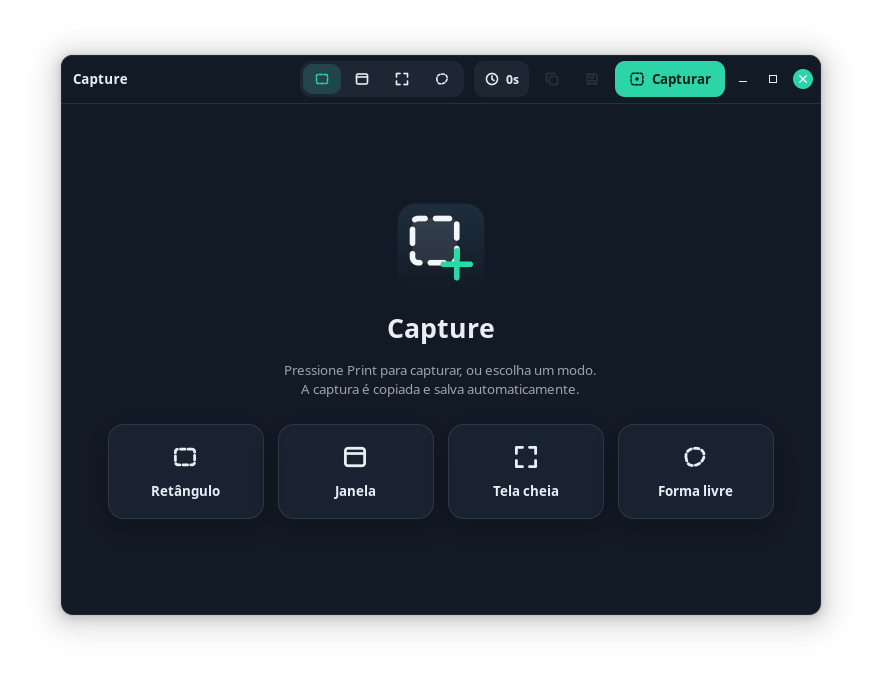
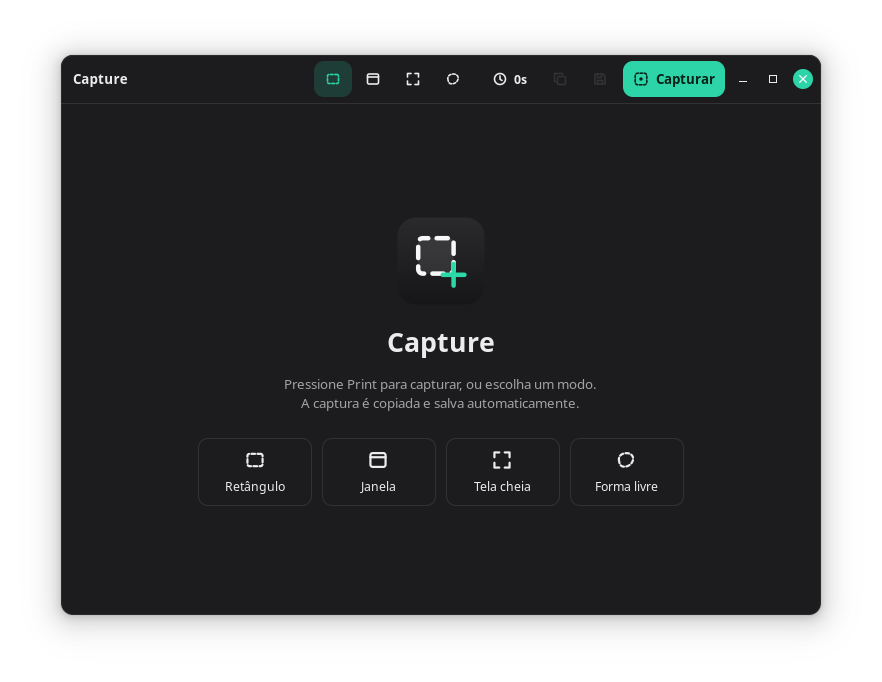
Visual minimalista, icone com mais respiro e roadmap no README
Tema grafite neutro com acento unico (botao Capturar e ferramenta/modo ativo),
paineis solidos com borda fina, modos do cabecalho sem caixa, cartoes do estado
vazio como botoes de contorno, sobreposicao com escurecimento neutro de 45%,
contorno de 1,5 px, colchetes menores e dica que some apos 2 s. Icone com a
arte interna reduzida em 20%. README com descricao visual e roadmap.

diff --git a/capture/app.py b/capture/app.py
@@ -22,7 +22,7 @@ from .overlay import Sessao
 from . import teste
 from .tema import CLARO, ESCURO, tokens_css
 
-# Identidade: azul-marinho profundo, um unico acento verde-agua e paineis de "vidro"
+# Identidade: cinzas grafite neutros, um unico acento verde-agua e paineis solidos
 # (preenchimento translucido + borda clara de 1 px + sombra suave + raio generoso).
 # Os tokens sao definidos uma vez por tema; o resto deriva deles.
 CSS_BASE = """
@@ -42,8 +42,8 @@ headerbar { background: @cap_surface; color: @cap_text; box-shadow: none;
 .vazio { background: @cap_surface; }
 .tela { background: @cap_canvas; }
 
-.vidro { background: alpha(@cap_raised, 0.78); border: 1px solid @cap_edge; border-radius: 16px;
-         box-shadow: 0 10px 30px alpha(black, 0.35); }
+.vidro { background: @cap_raised; border: 1px solid @cap_edge; border-radius: 12px;
+         box-shadow: 0 2px 8px alpha(black, 0.18); }
 .dock, .pill { padding: 6px 8px; }
 .dock button, .dock menubutton > button, .pill button, .modos button, .atraso > button {
         min-width: 34px; min-height: 34px; padding: 0; border-radius: 10px;
@@ -53,25 +53,28 @@ headerbar { background: @cap_surface; color: @cap_text; box-shadow: none;
 .dock button:checked, .dock menubutton.on > button, .pill button:checked, .modos button:checked {
         background: alpha(@cap_accent, 0.18); color: @cap_accent; }
 .dock separator { background: @cap_edge; min-width: 1px; margin: 6px 4px; }
-.chip { padding: 5px 12px; border-radius: 14px; font-size: 0.86em; margin: 0 0 18px 18px; }
-.dica { padding: 7px 16px; border-radius: 14px; font-size: 0.92em; }
+.chip { padding: 5px 12px; border-radius: 10px; font-size: 0.86em; margin: 0 0 18px 18px; }
+.dica { padding: 7px 16px; border-radius: 12px; font-size: 0.92em; transition: opacity 400ms ease; }
+.dica.some { opacity: 0; }
 
-.modos { background: alpha(@cap_text, 0.06); border-radius: 12px; padding: 3px; }
+.modos { background: none; padding: 0; }
 .modos button { min-width: 38px; min-height: 28px; }
-.atraso > button { min-width: 0; padding: 0 10px; min-height: 30px; background: alpha(@cap_text, 0.06); }
+.atraso > button { min-width: 0; padding: 0 10px; min-height: 30px; background: none; }
 .atraso label { font-weight: 600; font-size: 0.92em; }
 button.capturar { background: @cap_accent; color: @cap_accent_fg; border-radius: 10px; font-weight: 700;
-                  min-height: 32px; padding: 0 14px; box-shadow: none; border: none; }
+                  min-height: 30px; padding: 0 10px; box-shadow: none; border: none; }
 button.capturar:hover { background: shade(@cap_accent, 1.08); }
 headerbar button.discreto { min-width: 34px; min-height: 32px; padding: 0; border-radius: 10px; background: none;
                             box-shadow: none; color: @cap_text; }
 headerbar button.discreto:hover { background: alpha(@cap_text, 0.08); }
 headerbar button.discreto:disabled { opacity: 0.35; }
 
-.cartao { background: alpha(@cap_raised, 0.78); border: 1px solid @cap_edge; border-radius: 16px;
-          padding: 18px 22px; min-width: 110px; box-shadow: 0 10px 30px alpha(black, 0.25); color: @cap_text; }
-.cartao:hover { border-color: alpha(@cap_accent, 0.7); color: @cap_accent; }
-.cartao label { font-weight: 600; }
+headerbar windowcontrols > button, headerbar windowcontrols > button.close { background: none; background-image: none; color: @cap_text; box-shadow: none; }
+headerbar windowcontrols > button:hover { background: alpha(@cap_text, 0.08); }
+.cartao { background: none; border: 1px solid @cap_edge; border-radius: 10px;
+          padding: 10px 14px; min-width: 84px; box-shadow: none; color: @cap_text; }
+.cartao:hover { border-color: alpha(@cap_text, 0.35); background: alpha(@cap_text, 0.04); }
+.cartao label { font-weight: 500; font-size: 0.92em; }
 .amostra { min-width: 26px; min-height: 26px; padding: 0; border-radius: 13px; }
 .sobre { background: @cap_canvas; }
 """
@@ -257,14 +260,14 @@ class Janela(Adw.ApplicationWindow):
                              "A captura é copiada e salva automaticamente.", justify=Gtk.Justification.CENTER)
         aj.add_css_class("mudo")
         vazio.append(aj)
-        cartoes = Gtk.Box(spacing=14, halign=Gtk.Align.CENTER, margin_top=12)
+        cartoes = Gtk.Box(spacing=10, halign=Gtk.Align.CENTER, margin_top=12)
         self.cartoes = {}
         for cod, nome in MODOS:
             b = Gtk.Button()
             b.add_css_class("cartao")
             b.add_css_class("flat")
-            cv = Gtk.Box(orientation=Gtk.Orientation.VERTICAL, spacing=10, halign=Gtk.Align.CENTER)
-            cv.append(Icone(cod, 28))
+            cv = Gtk.Box(orientation=Gtk.Orientation.VERTICAL, spacing=6, halign=Gtk.Align.CENTER)
+            cv.append(Icone(cod, 22))
             cv.append(Gtk.Label(label=nome))
             b.set_child(cv)
             b.set_tooltip_text("Capturar: " + nome)

diff --git a/capture/overlay.py b/capture/overlay.py
@@ -89,11 +89,11 @@ DICAS = {"ret": "Arraste para selecionar  ·  Esc cancela",
          "livre": "Desenhe em volta da área  ·  Esc cancela"}
 # a sobreposicao e sempre escura (a tela e escurecida): usa a paleta escura do tema
 ACENTO = rgb(ESCURO["accent"])
-FUNDO_ESCURO = rgb(ESCURO["canvas"])
+FUNDO_ESCURO = (0.0, 0.0, 0.0)   # escurecimento neutro
 SUPERFICIE = rgb(ESCURO["surface"])
 
 
-def colchetes(cr, x, y, w, h, c=16):
+def colchetes(cr, x, y, w, h, c=10):
     """Cantos em L (so tracado, sem pintar) nos quatro cantos do retangulo."""
     c = max(2, min(c, w / 2, h / 2))
     for cx, cy, dx, dy in ((x, y, 1, 1), (x + w, y, -1, 1), (x + w, y + h, -1, -1), (x, y + h, 1, -1)):
@@ -163,6 +163,18 @@ class Sobreposicao(Gtk.Window):
         self.fullscreen_on_monitor(monitor)
         teste.grava_overlay(self)
 
+    def _mostra_dica(self):
+        """A dica aparece e some sozinha 2 s depois (continua nao-alvo do ponteiro)."""
+        self.dica.remove_css_class("some")
+        if getattr(self, "_t_dica", None):
+            GLib.source_remove(self._t_dica)
+        self._t_dica = GLib.timeout_add(2000, self._some_dica)
+
+    def _some_dica(self):
+        self._t_dica = None
+        self.dica.add_css_class("some")
+        return False
+
     def sincroniza(self):
         self._trava = True
         self.bts[self.s.modo].set_active(True)
@@ -170,6 +182,7 @@ class Sobreposicao(Gtk.Window):
         self.dica.set_label(DICAS.get(self.s.modo, ""))
         self.pill.set_visible(True)
         self.dica.set_visible(True)
+        self._mostra_dica()
         self.ini = self.fim = self.alvo = None
         self.caminho = []
         self.area.queue_draw()
@@ -230,6 +243,7 @@ class Sobreposicao(Gtk.Window):
             self.caminho = []
             self.pill.set_visible(True)
             self.dica.set_visible(True)
+            self._mostra_dica()
             self.area.queue_draw()
             return
         a, b = self._px(x0, y0)
@@ -251,7 +265,7 @@ class Sobreposicao(Gtk.Window):
 
     def _desenha(self, _a, cr, w, h):
         self._tela(cr)
-        cr.set_source_rgba(*FUNDO_ESCURO, 0.55)
+        cr.set_source_rgba(*FUNDO_ESCURO, 0.45)
         cr.paint()
         modo = self.s.modo
         caixa = None
@@ -277,11 +291,11 @@ class Sobreposicao(Gtk.Window):
         cr.restore()
         cr.append_path(caminho)
         cr.set_source_rgb(*ACENTO)
-        cr.set_line_width(2)
+        cr.set_line_width(1.5)
         cr.set_line_join(cairo.LINE_JOIN_MITER)
         cr.stroke()
         if caixa and caixa[2] > 0:
-            cr.set_line_width(4)
+            cr.set_line_width(2)
             cr.set_line_cap(cairo.LINE_CAP_SQUARE)
             colchetes(cr, *caixa)
             cr.stroke()
@@ -297,10 +311,10 @@ class Sobreposicao(Gtk.Window):
             _ret(cr, bx, by, tw + 20, th + 10, 9)
             cr.set_source_rgba(*SUPERFICIE, 0.9)
             cr.fill_preserve()
-            cr.set_source_rgba(*ACENTO, 0.45)
+            cr.set_source_rgba(1, 1, 1, 0.12)
             cr.set_line_width(1)
             cr.stroke()
-            cr.set_source_rgb(*ACENTO)
+            cr.set_source_rgb(*rgb(ESCURO["text"]))
             cr.move_to(bx + 10, by + 5)
             PangoCairo.show_layout(cr, lay)
 

diff --git a/capture/tema.py b/capture/tema.py
@@ -1,9 +1,9 @@
 """Paleta do Capture: a unica fonte das cores, usada pelo CSS da interface e pela sobreposicao."""
 
-ESCURO = {"surface": "#121A26", "raised": "#1A2433", "canvas": "#0C121B", "text": "#E8EEF5",
+ESCURO = {"surface": "#1C1C1E", "raised": "#242426", "canvas": "#141416", "text": "#ECECEE",
           "accent": "#2DD4A7", "accent_fg": "#06231B", "edge": "rgba(255, 255, 255, 0.10)"}
-CLARO = {"surface": "#F4F7FA", "raised": "#FFFFFF", "canvas": "#E6EBF1", "text": "#17202E",
-         "accent": "#0E9F7C", "accent_fg": "#FFFFFF", "edge": "rgba(18, 26, 38, 0.10)"}
+CLARO = {"surface": "#F7F7F8", "raised": "#FFFFFF", "canvas": "#EDEDEF", "text": "#1C1C1E",
+         "accent": "#0E9F7C", "accent_fg": "#FFFFFF", "edge": "rgba(28, 28, 30, 0.10)"}
 
 
 def rgb(hexa):

diff --git a/tests/test_paleta.py b/tests/test_paleta.py
@@ -26,7 +26,7 @@ class Paleta(unittest.TestCase):
         from capture import overlay
         self.assertEqual(overlay.ACENTO, rgb(ESCURO["accent"]))
         self.assertEqual(overlay.SUPERFICIE, rgb(ESCURO["surface"]))
-        self.assertEqual(overlay.FUNDO_ESCURO, rgb(ESCURO["canvas"]))
+        self.assertEqual(overlay.FUNDO_ESCURO, (0.0, 0.0, 0.0))
 
 
 if __name__ == "__main__":

diff --git a/README.md b/README.md
@@ -19,7 +19,8 @@ quiser, marca por cima antes de colar em outro lugar.
 - Desfazer e refazer.
 - Toda captura nova é copiada para a área de transferência e salva em PNG
   automaticamente, antes de você anotar. Depois de anotar, copie ou salve de novo.
-- Visual próprio: azul-marinho com um acento verde-água e painéis translúcidos.
+- Visual minimalista: cinzas grafite neutros, um único acento verde-água (só no botão
+  Capturar e na ferramenta ou modo ativo) e painéis sólidos com borda fina.
   Tema claro ou escuro, seguindo o tema do Cinnamon (fora do Cinnamon, segue o
   padrão do sistema).
 - Avisos como "Copiado para a área de transferência" e "Salvo em ..." aparecem
@@ -182,6 +183,12 @@ tests/        testes unitários; tests/e2e tem os de ponta a ponta
 install.sh    instalação local
 uninstall.sh  remoção
 ```
+
+## Roadmap
+
+- **1.0** (atual): captura (região, janela, tela inteira, área livre) e anotação.
+- **Próxima versão**: gravação de tela (região, janela ou tela inteira), exportando em MP4 ou GIF.
+- **Depois**: suporte a Wayland.
 
 ## Licença
 
